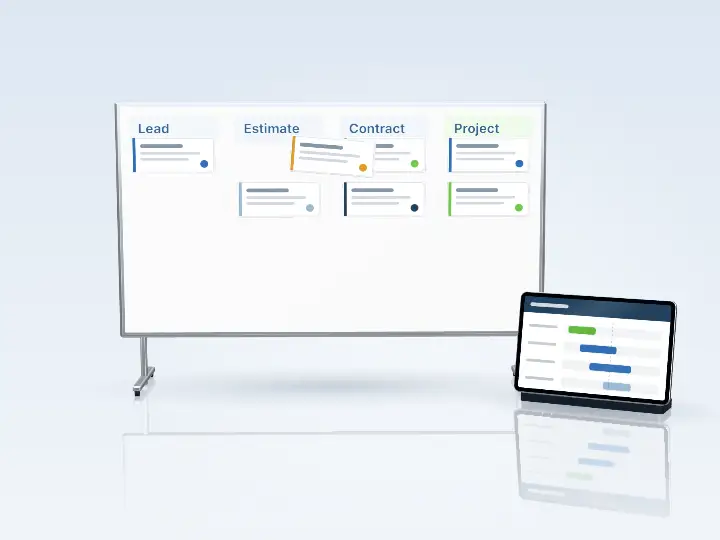
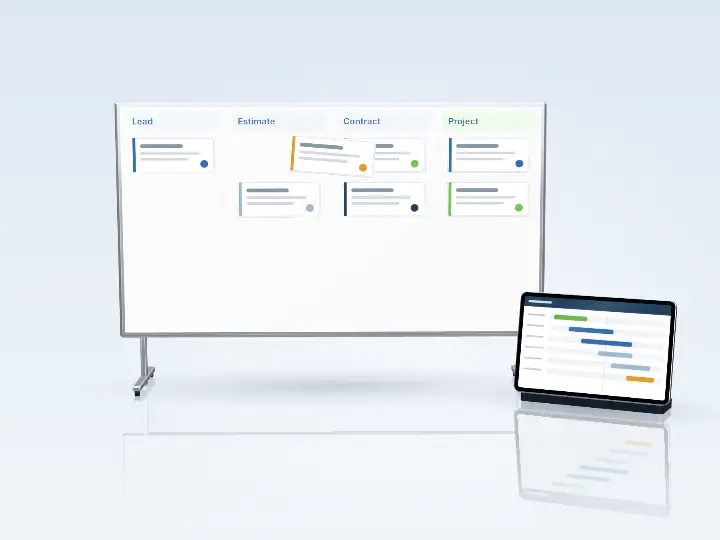
fix: lite 3D pictures laid out in full-size units, ticks land in their boxes
The audit report, the book pages, the project schedule, the servers' pipeline card, the UI kit's wireframe, the browser windows and the pipeline board were drawn with full-size pixel positions on the smaller pictures the lite (sequence) versions use. On the report the boxes therefore sat away from the ticks, which are placed for the full size, and on the others the lower part was cut off (the servers' card stopped at "Deplo"). Each now draws in full-size units and scales to the picture's size. Stills re-rendered; their version is bumped to 4 so browsers fetch them again.

diff --git a/motion/models/pipeline.ts b/motion/models/pipeline.ts
@@ -30,6 +30,10 @@ const JOBS: { c: string; from: number; moves: number[] }[] = [
 
 export function scheduleTexture(env: ModelEnv, mini = false): THREE.Texture {
   return drawn(env, mini ? 640 : 1024, mini ? 400 : 640, (g, w, h) => {
+    // laid out in full-size units at any size, so no row falls off the smaller screen
+    g.scale(w / 1024, h / 640);
+    w = 1024;
+    h = 640;
     g.fillStyle = "#ffffff";
     g.fillRect(0, 0, w, h);
     fillRR(g, 0, 0, w, 70, 0, "#22425f");
@@ -67,6 +71,10 @@ const build: ModelBuilder = async (env, mini) => {
   const alu = mat.alu(0xc4cad1, 0.32);
   put(group, rbox(BW + 0.2, BH + 0.2, 0.12, 0.06), alu, 0, BY, 0);
   const boardTex = drawn(env, mini ? 960 : 1440, mini ? 520 : 780, (g, w, h) => {
+    // laid out in full-size units at any size, so nothing is cut off on the lite version
+    g.scale(w / 1440, h / 780);
+    w = 1440;
+    h = 780;
     g.fillStyle = "#ffffff";
     g.fillRect(0, 0, w, h);
     const cw = w / COLS.length;

diff --git a/motion/models/servers.ts b/motion/models/servers.ts
@@ -41,7 +41,10 @@ const build: ModelBuilder = async (env, mini) => {
   group.add(shadow(env, 6.4, 3.8, 0.28, -0.8, 0));
 
   /* ---- the pipeline ---- */
-  const face = drawn(env, mini ? 400 : 640, mini ? 475 : 760, (g, w) => {
+  const face = drawn(env, mini ? 400 : 640, mini ? 475 : 760, (g, w, h) => {
+    // laid out in full-size units at any size, so nothing is cut off on the lite version
+    g.scale(w / 640, h / 760);
+    w = 640;
     g.fillStyle = "#ffffff";
     g.fillRect(0, 0, w, 760);
     fillRR(g, 40, 40, 200, 18, 9, "rgba(34,66,95,0.55)");

diff --git a/motion/models/windows.ts b/motion/models/windows.ts
@@ -15,6 +15,10 @@ import type { Model, ModelBuilder, ModelEnv } from "./types";
 async function windowPicture(env: ModelEnv, name: string, host: string, mini: boolean): Promise<THREE.Texture> {
   const img = await env.image(name);
   return drawn(env, mini ? 640 : 1024, mini ? 400 : 640, (g, w, h) => {
+    // laid out in full-size units at any size, so nothing is cut off on the lite version
+    g.scale(w / 1024, h / 640);
+    w = 1024;
+    h = 640;
     g.fillStyle = "#ffffff";
     g.fillRect(0, 0, w, h);
     // the title bar

diff --git a/motion/models/book.ts b/motion/models/book.ts
@@ -37,6 +37,10 @@ interface Spread {
 
 const page = (env: ModelEnv, size: [number, number], spine: "left" | "right", draw: Pen) =>
   drawn(env, size[0], size[1], (g, w, h) => {
+    // the pages are laid out in full-size units, so the lite book shows the same page, only smaller
+    g.scale(w / 512, h / 683);
+    w = 512;
+    h = 683;
     const bg = g.createLinearGradient(0, 0, w, h);
     bg.addColorStop(0, "#ffffff");
     bg.addColorStop(1, "#f2f5f8");

diff --git a/motion/models/uikit.ts b/motion/models/uikit.ts
@@ -30,6 +30,10 @@ const build: ModelBuilder = async (env, mini) => {
 
   /* ---- the wireframe, which fills in ---- */
   const wire = drawn(env, mini ? 300 : 512, mini ? 610 : 1040, (g, w, h) => {
+    // laid out in full-size units at any size, so nothing is cut off on the lite version
+    g.scale(w / 512, h / 1040);
+    w = 512;
+    h = 1040;
     g.fillStyle = "#ffffff";
     g.fillRect(0, 0, w, h);
     g.strokeStyle = "rgba(34,66,95,0.5)";

diff --git a/motion/models/report.ts b/motion/models/report.ts
@@ -21,6 +21,10 @@ const build: ModelBuilder = async (env, mini) => {
   group.add(book);
 
   const page = drawn(env, mini ? 482 : 724, mini ? 682 : 1024, (g, w, h) => {
+    // laid out in full-size units at any size, so the boxes stay where the ticks are placed
+    g.scale(w / 724, h / 1024);
+    w = 724;
+    h = 1024;
     g.fillStyle = "#ffffff";
     g.fillRect(0, 0, w, h);
     fillRR(g, 0, 0, w, 190, 0, "#22425f");

diff --git a/lib/scenes.ts b/lib/scenes.ts
@@ -76,7 +76,7 @@ export function sceneAria(variant: string): string {
 }
 
 /** Bumped whenever the stills are rendered again, so browsers fetch the new pictures instead of a cached old one. */
-export const STILL_VERSION = "3";
+export const STILL_VERSION = "4";
 
 /** What a service's still (the home page's grid) shows. */
 export const serviceStillAlt = (slug: string): string => {
